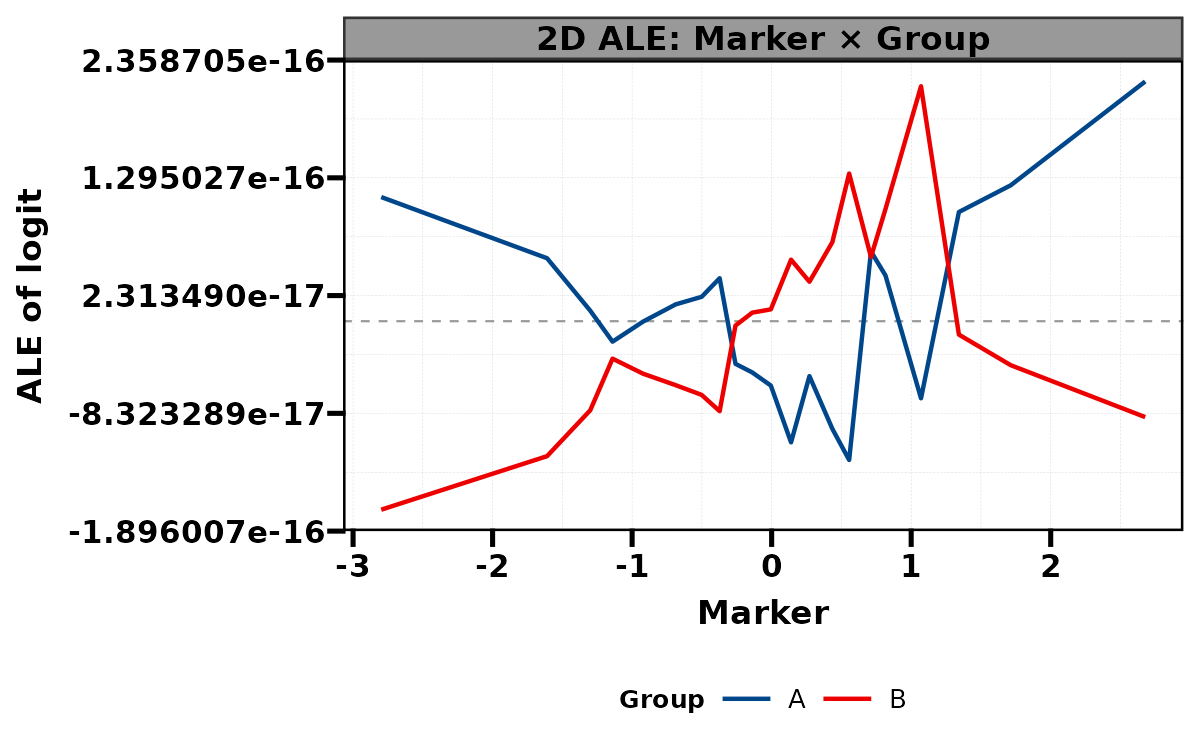
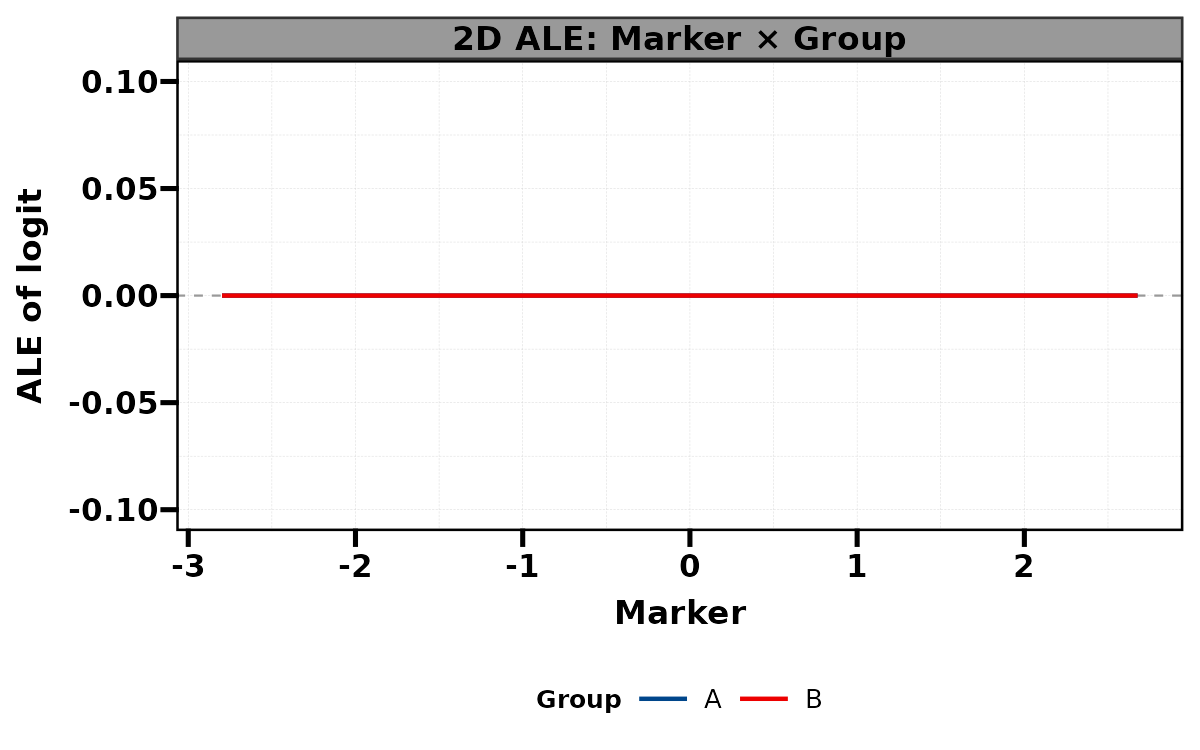
Update ale page summary for the newly documented workflows

diff --git a/docs/mlr/vpd-guide.html b/docs/mlr/vpd-guide.html
@@ -6,7 +6,7 @@
 
 <meta name="viewport" content="width=device-width, initial-scale=1.0, user-scalable=yes">
 
-<meta name="description" content="get_exp、get_vpd 和 get_vpd_pnl 的完整工作流；比较生存与二分类的变量组合、预测时间和模型后端。">
+<meta name="description" content="get_exp、get_vpd、get_vpd_pnl 与 get_ale2 的工作流；比较分组响应、预测时间与去除主效应后的二阶交互。">
 
 <title>变量分布与 PDP：解释器、分组和预测时间 – R 包开发笔记</title>
 <style>
@@ -1176,18 +1176,19 @@ pre > code.sourceCode > span > a:first-child::before { text-decoration: underlin
 <div id="tabset-1-2" class="tab-pane" role="tabpanel" aria-labelledby="tabset-1-2-tab">
 <div class="code-copy-outer-scaffold"><div class="sourceCode" id="cb4"><pre class="sourceCode r code-with-copy"><code class="sourceCode r"><span id="cb4-1"><a href="#cb4-1" aria-hidden="true" tabindex="-1"></a>ec_linear <span class="ot">&lt;-</span> <span class="fu">get_exp</span>(dc, <span class="at">vars =</span> cvars, <span class="at">surv =</span> <span class="st">"Outcome"</span>, <span class="at">model =</span> <span class="st">"default"</span>)</span>
 <span id="cb4-2"><a href="#cb4-2" aria-hidden="true" tabindex="-1"></a>linear_ale <span class="ot">&lt;-</span> <span class="fu">get_ale2</span>(ec_linear, <span class="fu">c</span>(<span class="st">"Marker"</span>, <span class="st">"Group"</span>),</span>
-<span id="cb4-3"><a href="#cb4-3" aria-hidden="true" tabindex="-1"></a>  <span class="at">N =</span> <span class="dv">300</span>, <span class="at">scale =</span> <span class="st">"link"</span>, <span class="at">cores =</span> <span class="dv">1</span>)</span>
-<span id="cb4-4"><a href="#cb4-4" aria-hidden="true" tabindex="-1"></a>linear_ale</span></code></pre></div><button title="复制到剪贴板" class="code-copy-button"><i class="bi"></i></button></div>
+<span id="cb4-3"><a href="#cb4-3" aria-hidden="true" tabindex="-1"></a>  <span class="at">N =</span> <span class="dv">300</span>, <span class="at">scale =</span> <span class="st">"link"</span>, <span class="at">cores =</span> <span class="dv">1</span>) <span class="sc">+</span></span>
+<span id="cb4-4"><a href="#cb4-4" aria-hidden="true" tabindex="-1"></a>  <span class="fu">coord_cartesian</span>(<span class="at">ylim =</span> <span class="fu">c</span>(<span class="sc">-</span><span class="fl">0.1</span>, <span class="fl">0.1</span>))</span>
+<span id="cb4-5"><a href="#cb4-5" aria-hidden="true" tabindex="-1"></a>linear_ale</span></code></pre></div><button title="复制到剪贴板" class="code-copy-button"><i class="bi"></i></button></div>
 <div class="quarto-figure quarto-figure-center">
 <figure class="figure">
-<p><a href="images/vpd-guide/additive-link-ale2.png" class="lightbox" data-gallery="quarto-lightbox-gallery-2" title="没有显式乘积项的 Logistic 工作模型，link 尺度二阶 ALE 接近零。"><img src="images/vpd-guide/additive-link-ale2.png" class="img-fluid figure-img" alt="只含主效应的 Logistic 模型在 logit 尺度上的二阶 ALE 接近数值零，反映所拟合模型而不是生成数据的交互。" loading="lazy" decoding="async" width="1200" height="750" srcset="../assets/figure-previews/63374fe89912e9cea80f748d9b2afd50.webp"></a></p>
+<p><a href="images/vpd-guide/additive-link-ale2.png" class="lightbox" data-gallery="quarto-lightbox-gallery-2" title="没有显式乘积项的 Logistic 工作模型，link 尺度二阶 ALE 接近零。"><img src="images/vpd-guide/additive-link-ale2.png" class="img-fluid figure-img" alt="只含主效应的 Logistic 模型在 logit 尺度上的二阶 ALE 接近数值零，反映所拟合模型而不是生成数据的交互。" loading="lazy" decoding="async" width="1200" height="750" srcset="../assets/figure-previews/9fd7945aa87cfc8271ec7779c24f11e7.webp"></a></p>
 <figcaption>没有显式乘积项的 Logistic 工作模型，link 尺度二阶 ALE 接近零。</figcaption>
 </figure>
 </div>
 </div>
 </div>
 </div>
-<p>模拟数据含有 Marker × Group，但默认 Logistic 工作模型只拟合主效应，所以第二张图的 link 尺度交互应接近零。图解释的是实际拟合模型；不能据此否定真实数据生成过程中的交互。概率尺度与 link 尺度的交互含义也不同。</p>
+<p>第二张图将纵轴固定在 ±0.1 logit，避免放大约 1e−16 的浮点误差。模拟数据含有 Marker × Group，但默认 Logistic 工作模型只拟合主效应，所以第二张图的 link 尺度交互应接近零。图解释的是实际拟合模型；不能据此否定真实数据生成过程中的交互。概率尺度与 link 尺度的交互含义也不同。</p>
 <p>默认 <code>N=10000</code>，<code>N=NULL</code> 使用全部数据；超过 N 时等间隔取行，不消耗 RNG。二阶 ALE 的成本主要是每个有效局部区间四角预测。随机森林没有对应的拟合 link，显式使用 <code>scale="prob"</code>；Cox / Logistic 的 link 则对应模型工作尺度。</p>
 <p>本例执行默认 <code>engine="iml"</code>；其他引擎和分类水平排序应按当前帮助选择。二阶 ALE 是模型解释图，不提供交互 P 值，也不能替代临床效应修饰检验。</p>
 </section>

diff --git a/docs/index.html b/docs/index.html
@@ -1460,7 +1460,7 @@ LabR    Suggests -&gt; UtilsR</code></pre>
 <td style="text-align: left;">绘图与格式化</td>
 <td style="text-align: left;">2026-10-01</td>
 </tr>
-<tr class="even" data-keywords="P S as.data.frame c complete.cases data.frame droplevels factor get_ale2 get_exp get_pdp2 get_pnl_curve get_vpd get_vpd_pnl ggsave ifelse library list plogis rnorm runif sample set.seed">
+<tr class="even" data-keywords="P S as.data.frame c complete.cases coord_cartesian data.frame droplevels factor get_ale2 get_exp get_pdp2 get_pnl_curve get_vpd get_vpd_pnl ggsave ifelse library list plogis rnorm runif sample set.seed">
 <td style="text-align: left;">MLR</td>
 <td style="text-align: left;"><a href="./mlr/vpd-guide.html">变量分布与 PDP：解释器、分组和预测时间，12 张参数对照图</a></td>
 <td style="text-align: left;">模型解释</td>
